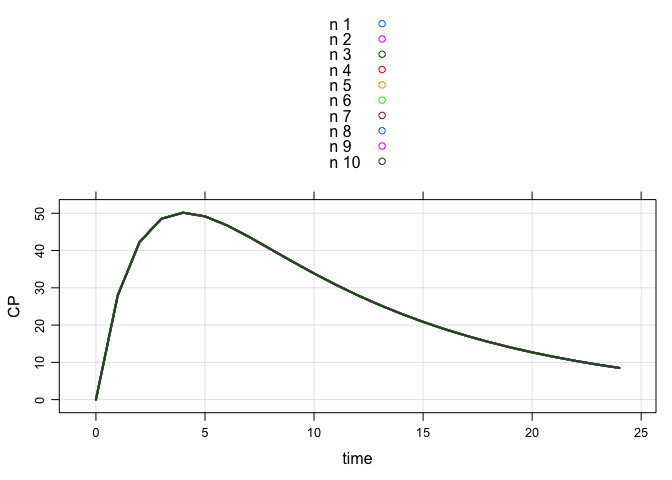
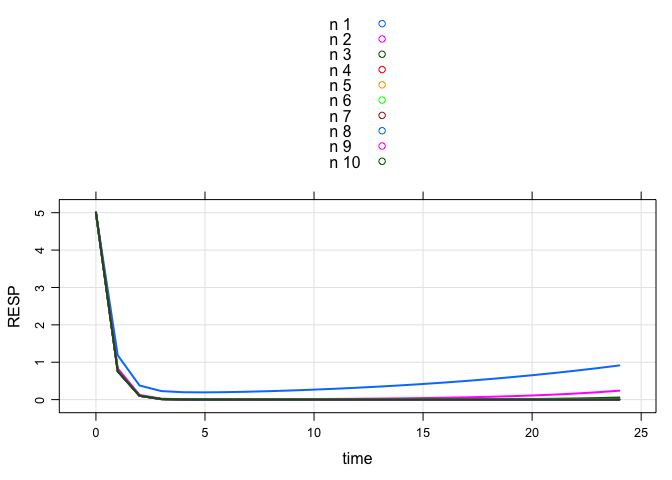
README

diff --git a/README.md b/README.md
@@ -112,7 +112,7 @@ see(mod)
 ``` r
 mod %>% 
   ev(amt=750) %>% 
-  Req(CP) %>%
+  Req(RESP) %>%
   knobs(n=seq(1,10,1)) %>%
   plot
 ```
